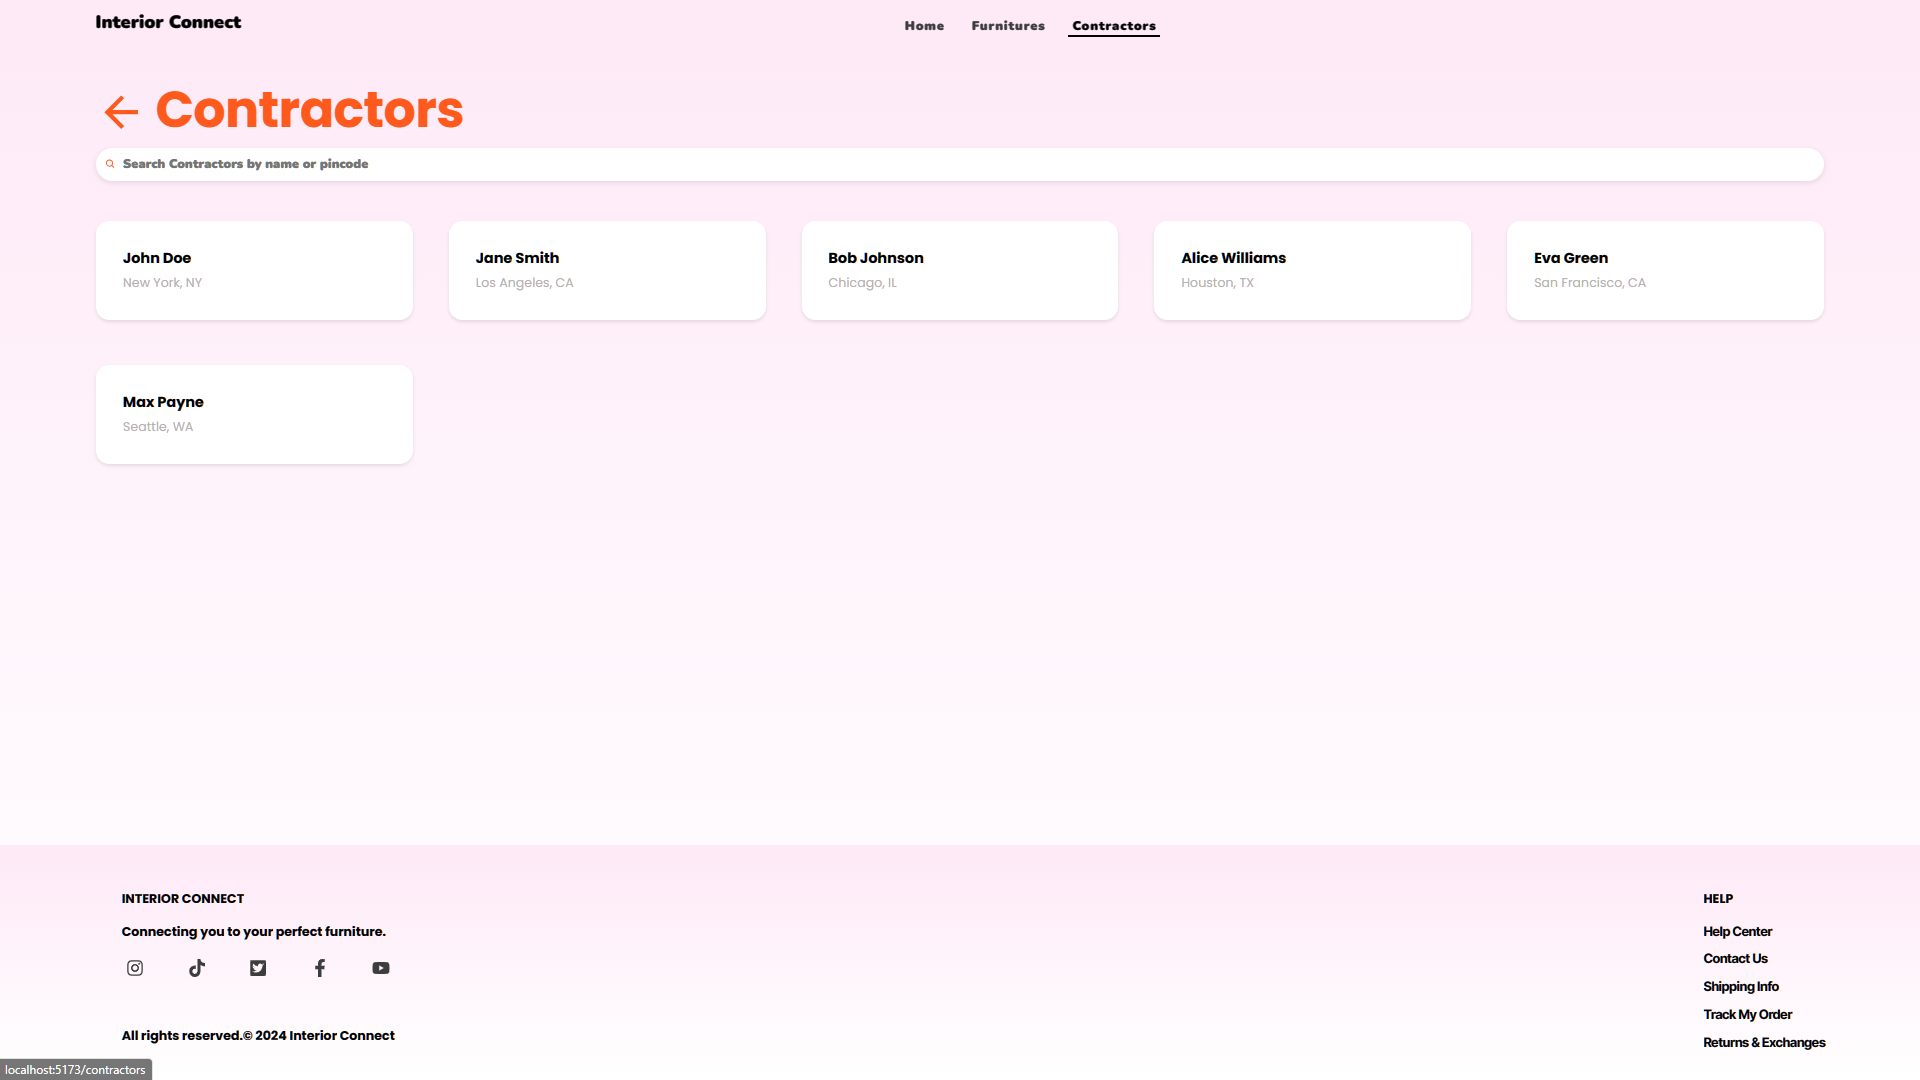
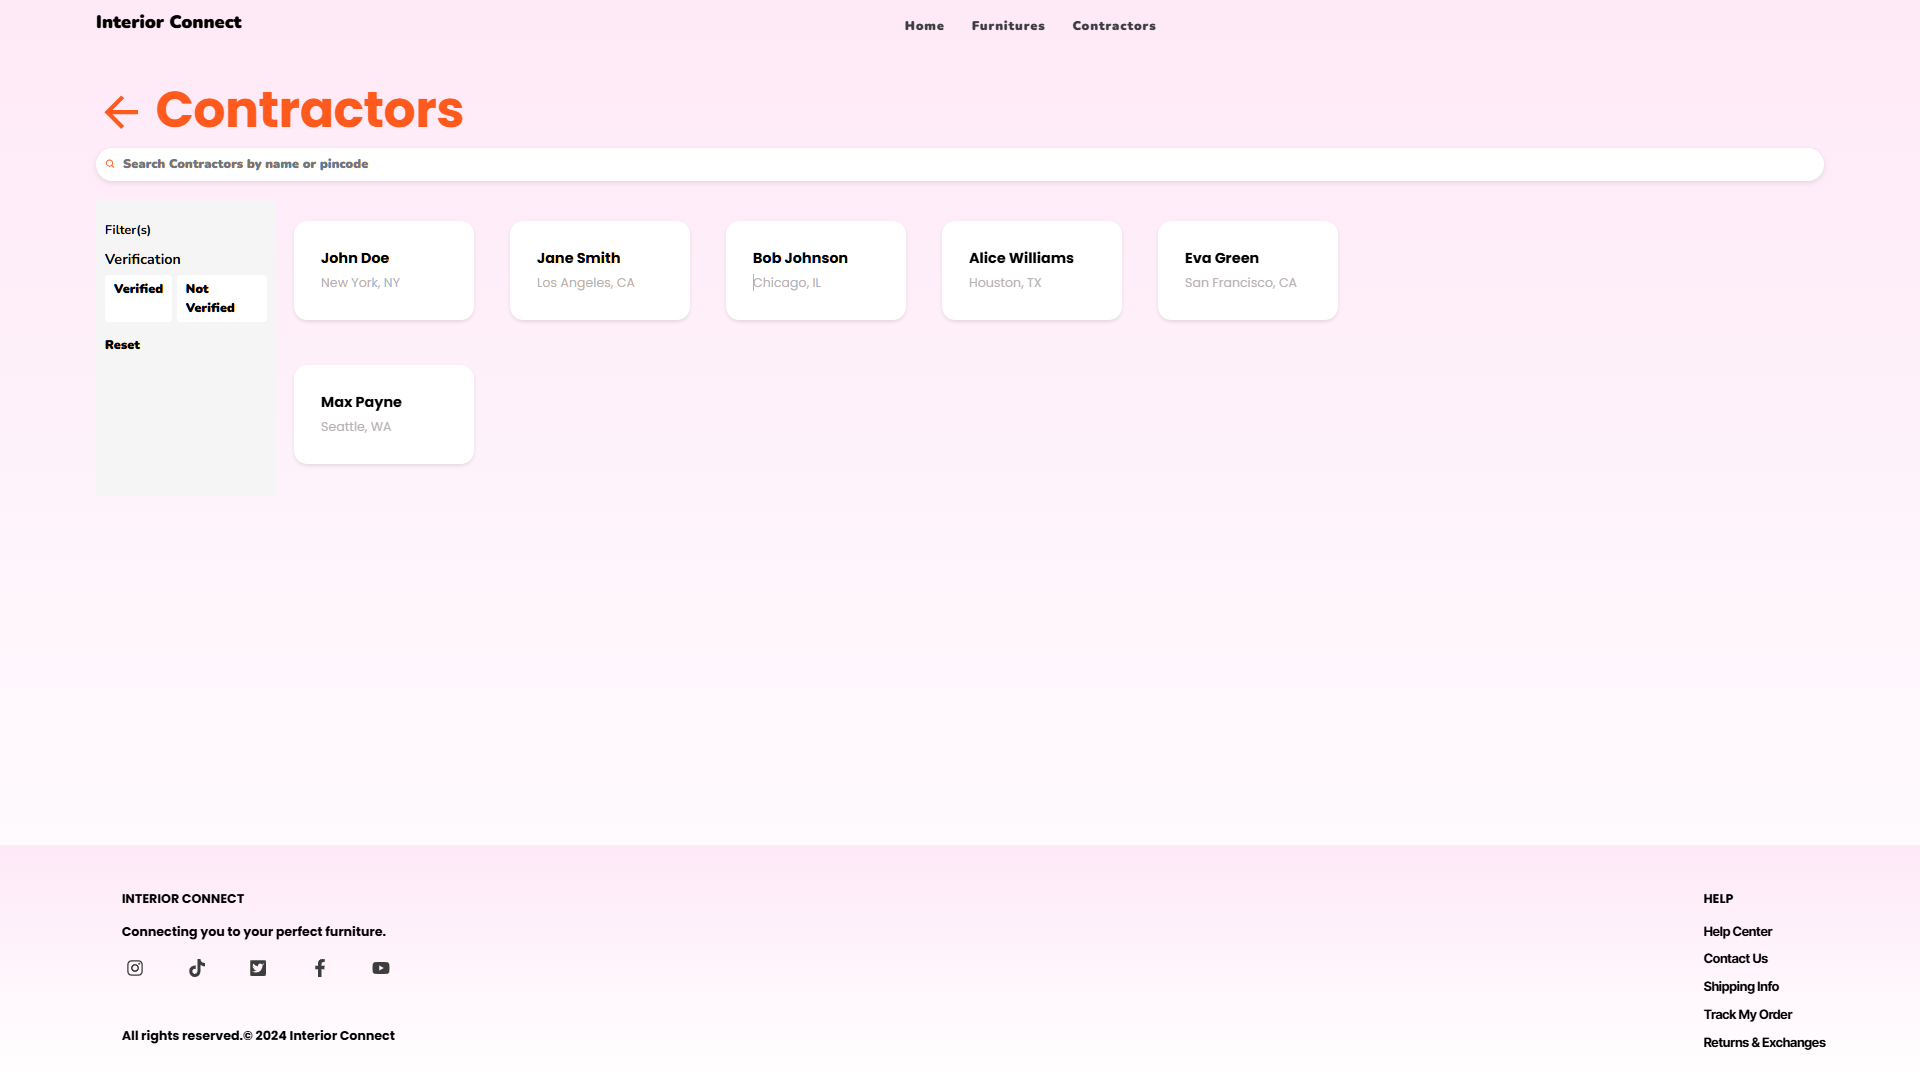
doc :Update README.md

diff --git a/README.md b/README.md
@@ -39,7 +39,7 @@ To set up the project on your local machine, follow these steps:
 -   **Contractor Search**: Implemented search functionality on the contractor page to help users find the right professional for their project.
 -   **Furniture Search**: Added search functionality on the furniture page, allowing users to filter through a wide range of furniture options.
 -   **Responsive Design**: Ensures a seamless experience across various devices and screen sizes.
--   **Upcoming**: Integration of advanced filters to refine search results further.
+-   **Filters**: Integration of advanced filters to refine search results further.
 
 ## Technology Stack
 
